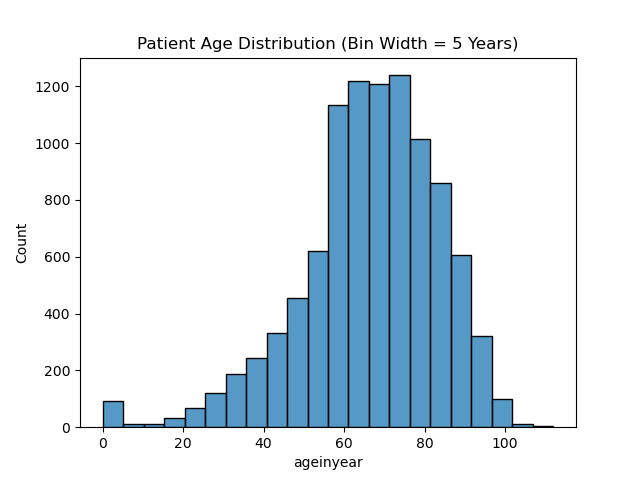
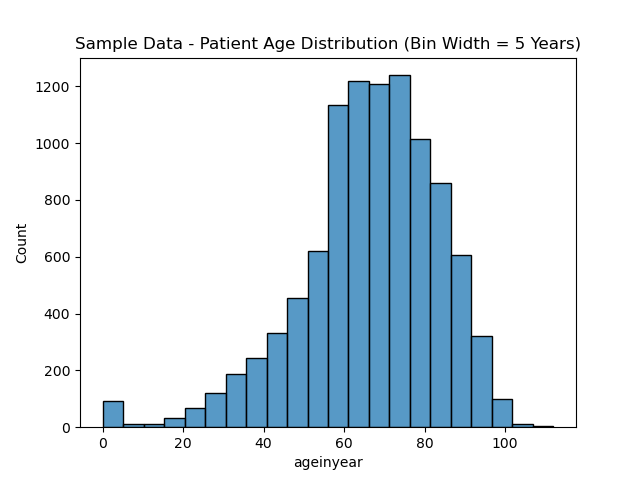
modifying readme and charts

Changed region(s): [[0.125, 0.0625, 0.9062, 0.125]]

diff --git a/src/data/eda_charts_sample.py b/src/data/eda_charts_sample.py
@@ -17,29 +17,35 @@ def main():
                         labels=['0-18', '19-35', '36-50', '51-65', '65-75', '75+'])
     
     g = sns.histplot(data=df, x="ageinyear", binwidth=5)
-    plt.title("Patient Age Distribution (Bin Width = 5 Years)")
+    plt.title("Sample Data - Patient Age Distribution (Bin Width = 5 Years)")
     plt.savefig("figs/fig_samples/age-histogram_sample.png")
     plt.show()
 
     # hue-mapped histogram of age by urbanicity
     plt.figure(figsize=(7, 5))
     sns.histplot(data=df, x="ageinyear", hue="Urbanicity", element="step", stat="density", common_norm=False, binwidth=5, alpha=0.2)
-    plt.title("Patient Age Distribution by Urbanicity (Bin Width = 5 years)")
+    plt.title("Sample Data - Patient Age Distribution by Urbanicity (Bin Width = 5 years)")
     plt.xlabel("Age (years)")
     plt.ylabel("Density")
     plt.savefig("figs/fig_samples/age-histogram-by-urbanicity_sample.png")
     plt.show()
 
     # bar plot with count of patient #s by urbanicity
+    sns.countplot(x = df['Urbanicity'], order = ['U', 'S', 'R', 'W'])
+    plt.title("Sample Data - Count of Patients by Urbanicity")
+    plt.savefig("figs/fig_samples/patient-counts-by-urbanicity_sample.png")
+    plt.show()
+
+    # bar plot with count of patient #s by urbanicity and age
     plt.figure(figsize=(7, 5))
     sns.countplot(x="Urbanicity", hue="age_group", data=df, order=["U", "S", "R", "W"], palette="viridis", 
                   hue_order=['0-18', '19-35', '36-50', '51-65', '65-75', '75+']) #age groups
     plt.xticks(range(4), ['Urban', 'Suburban', 'Rural', 'Wilderness'], rotation=0)
-    plt.title("Count of Patients by Urbanicity")
+    plt.title("Sample Data - Count of Patients by Urbanicity and Age")
     plt.xticks(rotation=0)
     plt.legend(title="Age Groups", bbox_to_anchor=(1.05, 1), loc='upper left')
     plt.tight_layout()
-    plt.savefig("figs/fig_samples/patient-counts-by-urbanicity_sample.png", bbox_inches='tight')
+    plt.savefig("figs/fig_samples/patient-counts-by-urbanicity-age_sample.png", bbox_inches='tight')
     plt.show()
 
 

diff --git a/src/data/eda_charts.py b/src/data/eda_charts.py
@@ -13,7 +13,10 @@ def main():
     # replace null values for age in year, then convert to numeric (float for None types)
     df['ageinyear'] = df['ageinyear'].replace('. ', None)
     df['ageinyear'] = df['ageinyear'].astype(float)
-
+    df['age_group'] = pd.cut(df['ageinyear'], 
+                        bins=[0, 18, 35, 50, 65, 75, 100],  
+                        labels=['0-18', '19-35', '36-50', '51-65', '65-75', '75+'])
+    
     # age distribution across all patients
     g = sns.histplot(data = df, x = "ageinyear", binwidth = 5)
     plt.title("Patient Age Distribution (Bin Width = 5 Years)")
@@ -30,6 +33,18 @@ def main():
     sns.countplot(x = df['Urbanicity'], order = ['U', 'S', 'R', 'W'])
     plt.title("Count of Patients by Urbanicity")
     plt.savefig("figs/patient-counts-by-urbanicity.png")
+    plt.show()
+
+    # bar plot with count of patient #s by urbanicity and age
+    plt.figure(figsize=(7, 5))
+    sns.countplot(x="Urbanicity", hue="age_group", data=df, order=["U", "S", "R", "W"], palette="viridis", 
+                  hue_order=['0-18', '19-35', '36-50', '51-65', '65-75', '75+']) #age groups
+    plt.xticks(range(4), ['Urban', 'Suburban', 'Rural', 'Wilderness'], rotation=0)
+    plt.title("Count of Patients by Urbanicity and Age")
+    plt.xticks(rotation=0)
+    plt.legend(title="Age Groups", bbox_to_anchor=(1.05, 1), loc='upper left')
+    plt.tight_layout()
+    plt.savefig("figs/patient-counts-by-urbanicity-age.png", bbox_inches='tight')
     plt.show()
 
 if __name__ == "__main__":

diff --git a/EDA.md b/EDA.md
@@ -3,17 +3,27 @@
 ## Count of Patients by Urbanicity
 To start investigating some variables in the dataset, we wanted to gain a sense for how many patients in the dataset are from rural vs. urban zones:
 
-![Bar Plot of Patient Counts by Urbanicity](./figs/patient-counts-by-urbanicity.png)
+## Distribution by Urbanicity
 
 We can see that the vast majority of the dataset is for patients in urban zones. This should be kept in mind for future analyses. We can also start to get a sense for the ages of patients within a regional type:
 
-![Bar Plot of Patients w/ Age Sub-Plot](./figs/fig_samples/patient-counts-by-urbanicity_sample.png)
+<table>
+<tr>
+<td><img src="./figs/patient-counts-by-urbanicity.png" alt="Full Dataset"/></td>
+<td><img src="./figs/fig_samples/patient-counts-by-urbanicity_sample.png" alt="Sample Dataset"/></td>
+</tr>
+</table>
 
 ## Distribution of Age
 
 Next, we wanted to get a sense for the age distribution of patients with cardiac events:
 
-![Histogram of Age](./figs/age-histogram.png)
+<table>
+<tr>
+<td><img src="./figs/age-histogram.png" alt="Full Dataset"/></td>
+<td><img src="./figs/fig_samples/age-histogram_sample.png" alt="Sample Dataset"/></td>
+</tr>
+</table>
 
 We can see that the patient age distribution is negatively skewed - which makes sense because we'd expect more patients experiencing cardiac events to be older, with fewer children experiencing cardiac events.
 
@@ -21,7 +31,18 @@ We can see that the patient age distribution is negatively skewed - which makes 
 
 We also plotted a histogram of age using probability density, with shading by urbanicity:
 
-![Histogram of Age by Urbanicity](./figs/age-histogram-by-urbanicity.png)
+<table>
+<tr>
+<td><img src="./figs/age-histogram-by-urbanicity.png" alt="Full Dataset"/></td>
+<td><img src="./figs/fig_samples/age-histogram-by-urbanicity_sample.png" alt="Sample Dataset"/></td>
+</tr>
+</table>
+<table>
+<tr>
+<td><img src="./figs/age-histogram-by-urbanicity-age.png" alt="Full Dataset"/></td>
+<td><img src="./figs/fig_samples/age-histogram-by-urbanicity-age_sample.png" alt="Sample Dataset"/></td>
+</tr>
+</table>
 
 This was interesting because we can see that patients from rural areas, wilderness zones, and the suburbs have a higher proportion of cardiac events between the ages of 60 - 80, with a lower proportion of urban dwellers experiencing cardiac events in this age bracket. This histogram also shows that urban dwellers represent a higher proportion of the patients > 80 years old. 
 
